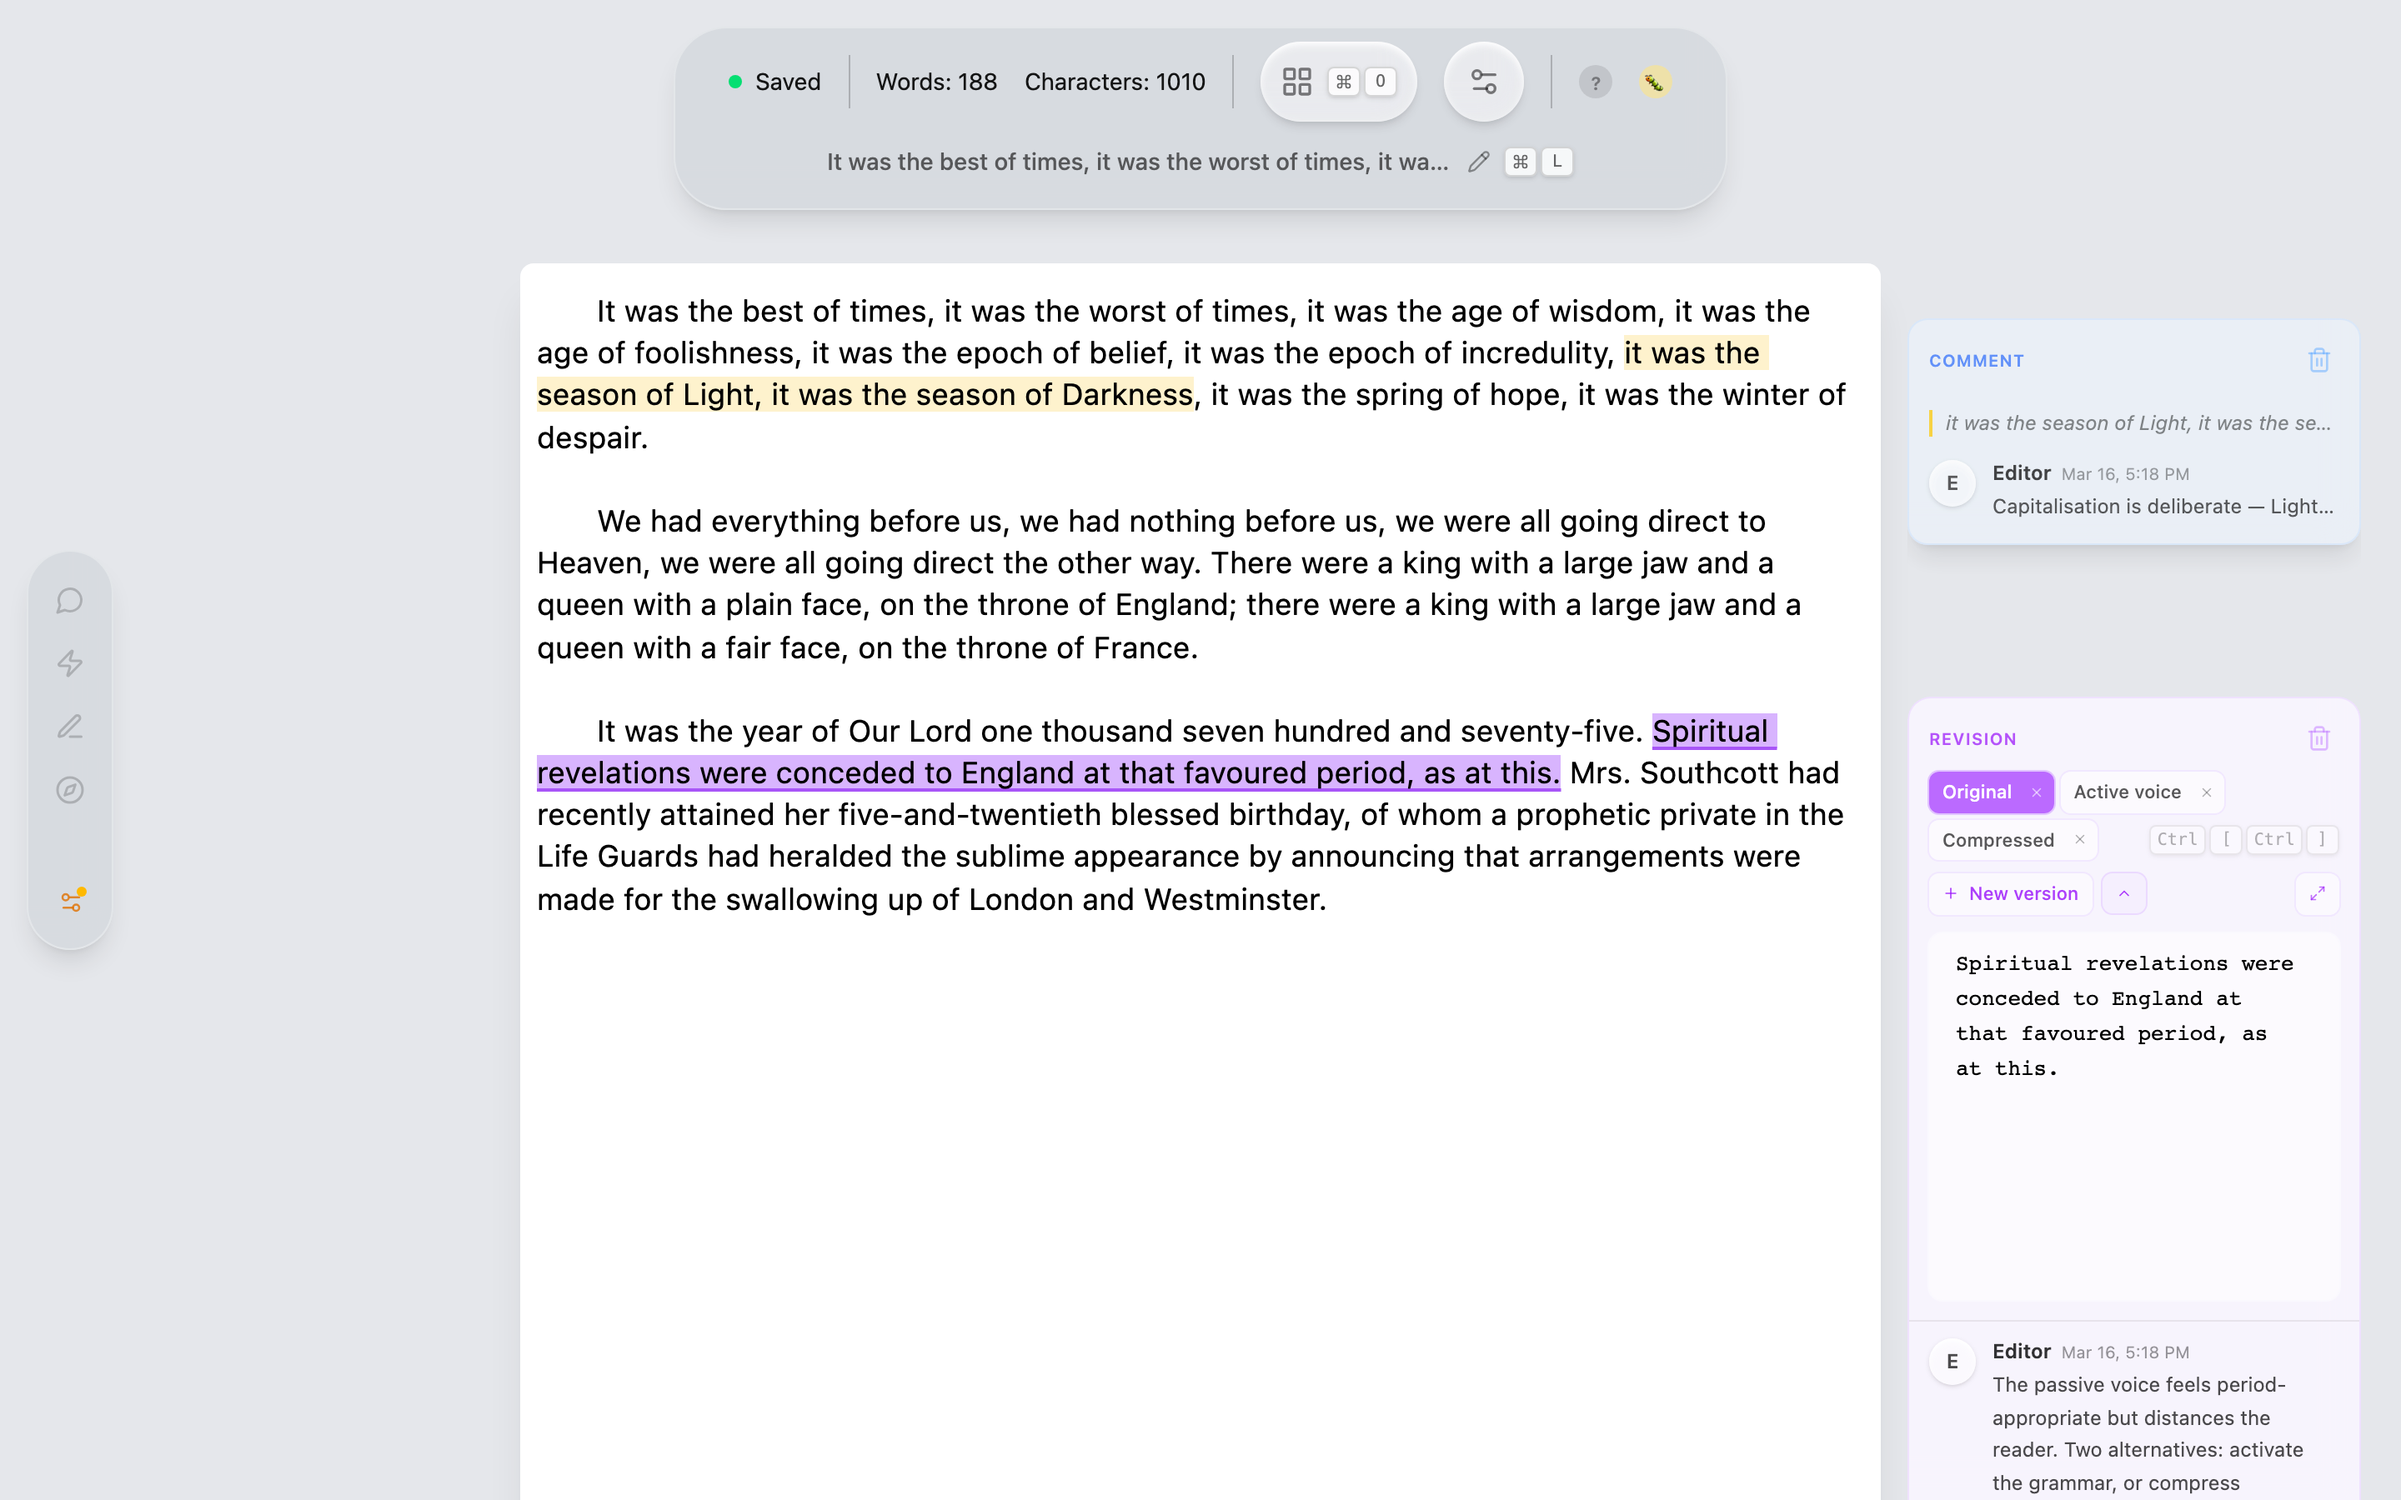
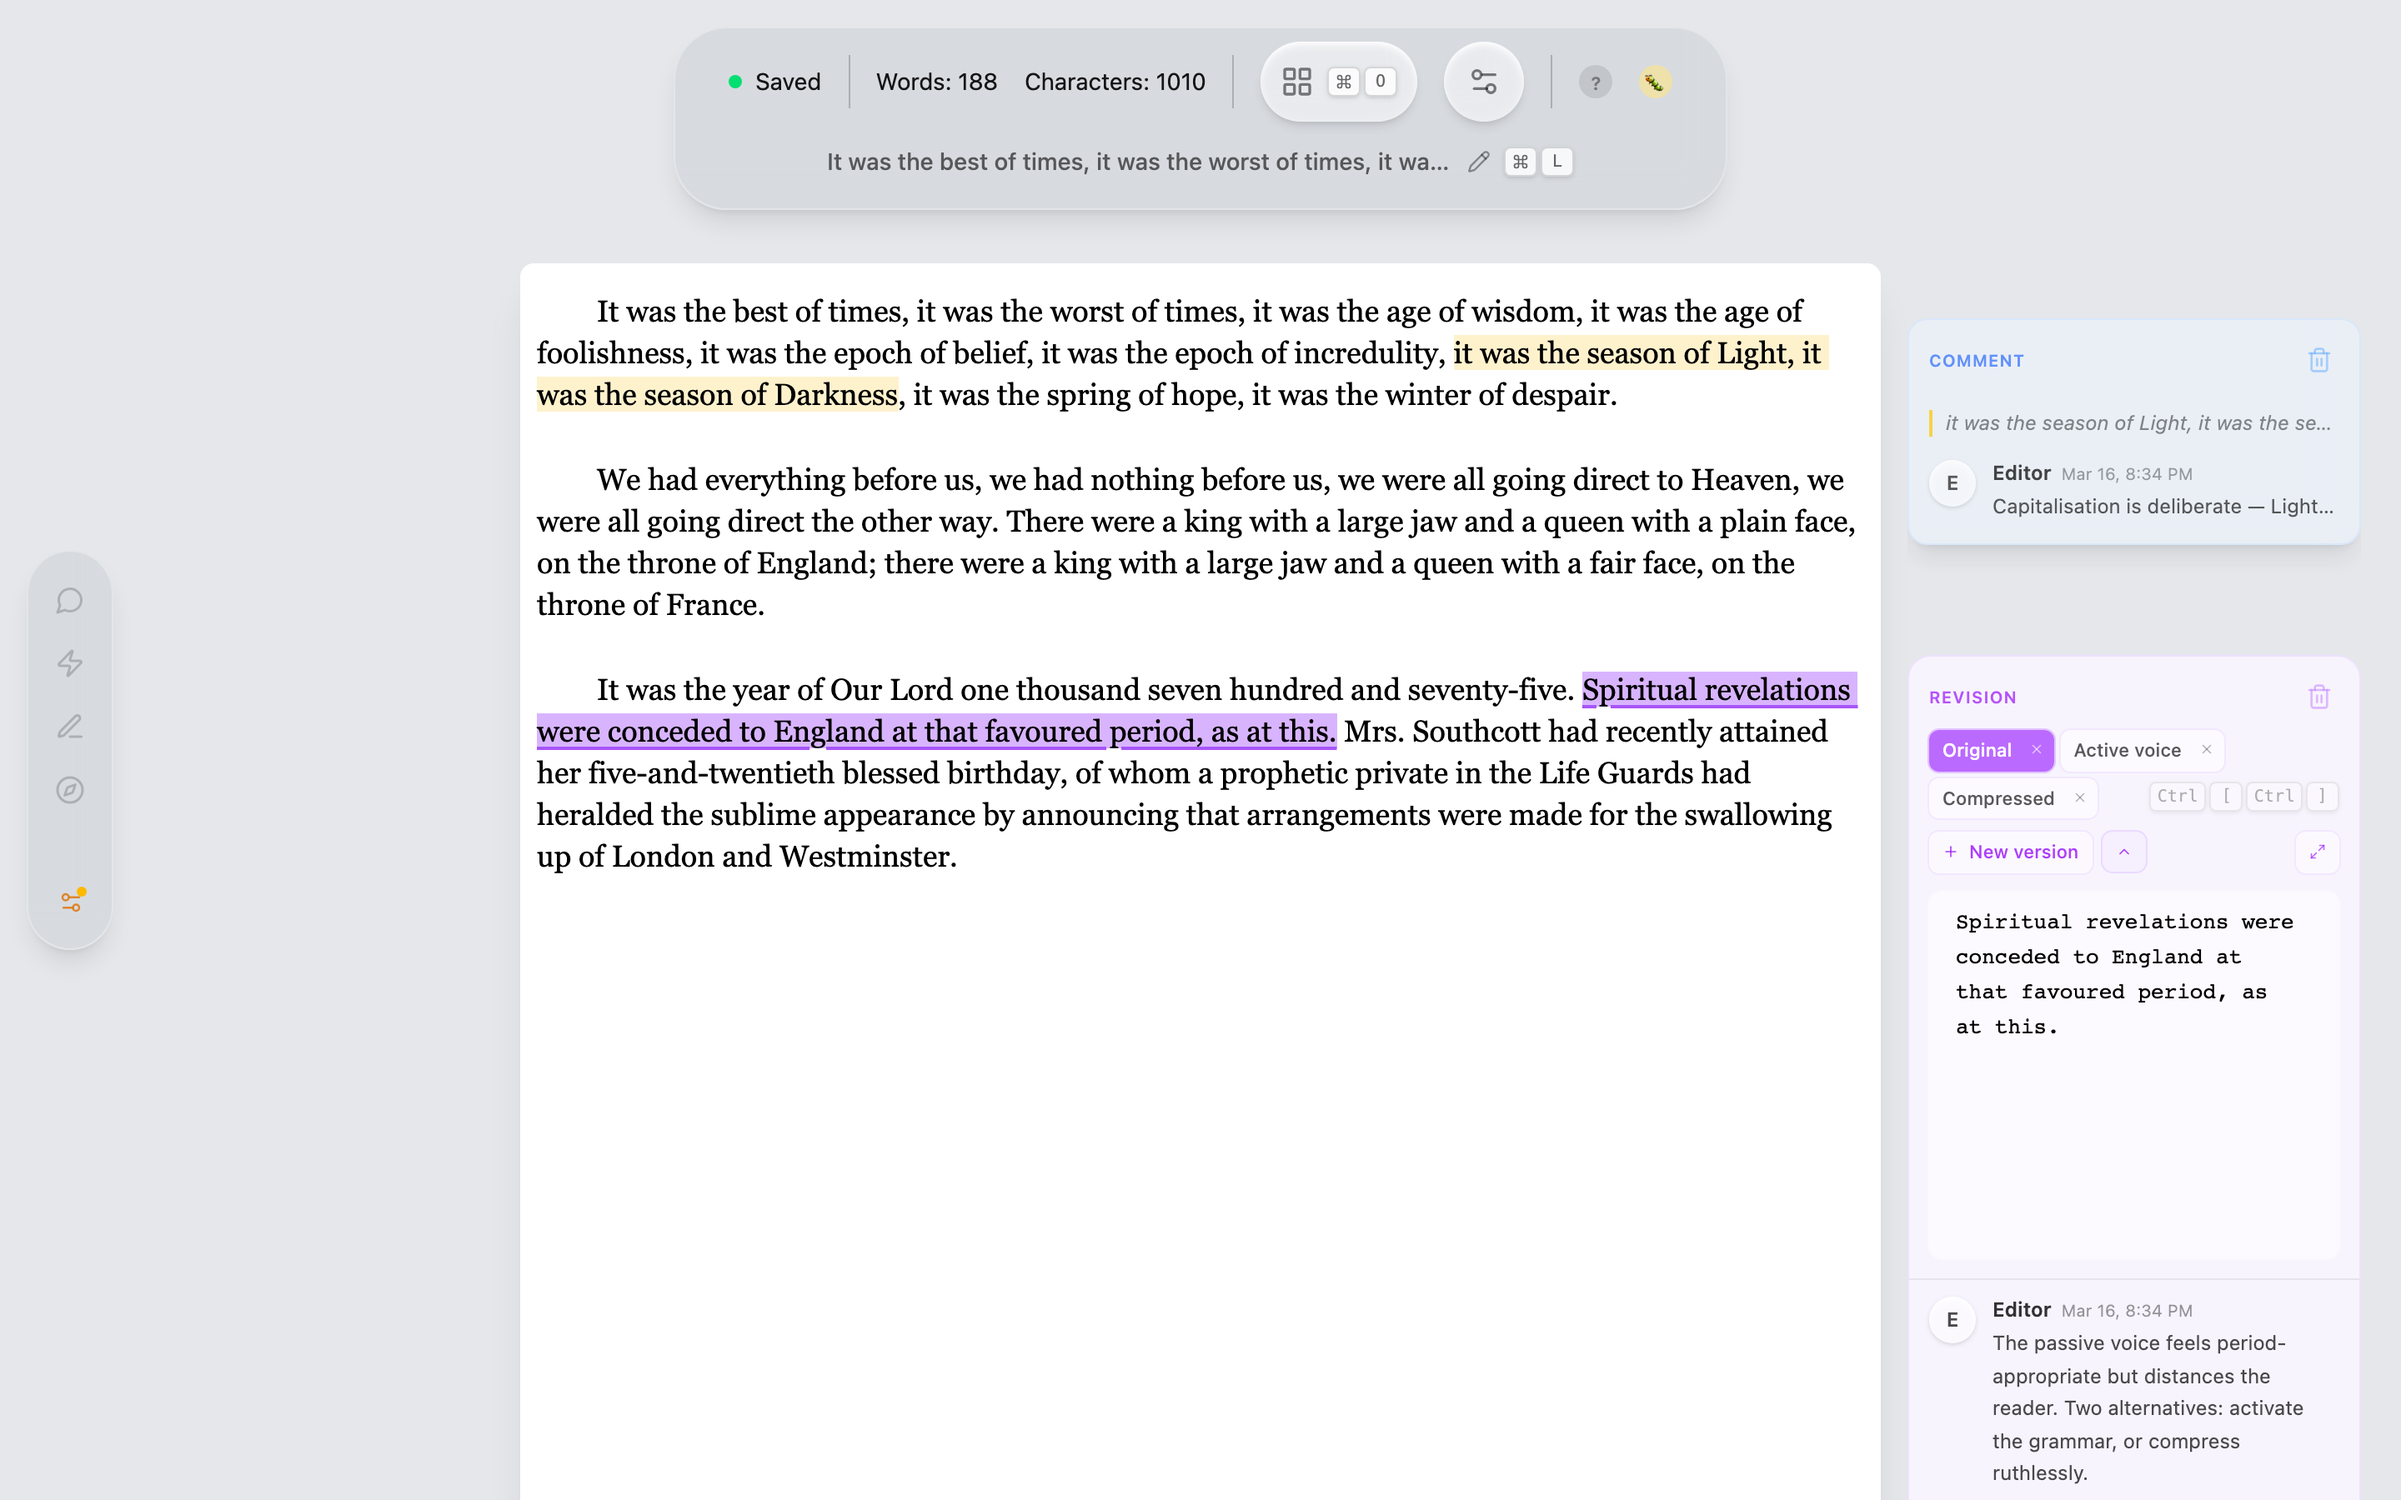
full ui screenshot!

Changed region(s): [[0.2188, 0.1867, 0.9375, 0.7156], [0.8125, 0.8711, 0.9688, 0.9956]]

diff --git a/scripts/screenshots.ts b/scripts/screenshots.ts
@@ -566,7 +566,8 @@ async function scenarioFullUi(ctx: BrowserContext): Promise<void> {
     await page.locator("#ai-tab-chat").click({ force: true });
     await page.locator("#ai-sidebar").waitFor({ state: "visible" });
 
-    // Select the rain passage so the "Context:" box appears in the AI sidebar
+    // Select "The letter stayed where it was." as a range — this both activates
+    // the comment card AND populates $selectedText so the Context box appears.
     await page.evaluate(() => {
         const w = window as unknown as Record<string, unknown>;
         const editorViewStore = w.__editorView__ as
@@ -574,9 +575,7 @@ async function scenarioFullUi(ctx: BrowserContext): Promise<void> {
             | undefined;
         if (!editorViewStore) return;
         let view: unknown;
-        const unsub = editorViewStore.subscribe((v) => {
-            view = v;
-        });
+        const unsub = editorViewStore.subscribe((v) => { view = v; });
         unsub();
         if (!view) return;
         const v = view as {
@@ -585,18 +584,14 @@ async function scenarioFullUi(ctx: BrowserContext): Promise<void> {
             focus(): void;
         };
         const doc = v.state.doc.toString();
-        const target = "the rain began";
+        const target = "The letter stayed where it was.";
         const from = doc.indexOf(target);
         if (from === -1) return;
-        const to = from + "the rain began — gently at first, then all at once, the way grief arrives without warning or ceremony".length;
+        const to = from + target.length;
         v.focus();
         v.dispatch({ selection: { anchor: from, head: to } });
     });
-    await page.waitForTimeout(300);
-
-    // Activate the last comment ("The letter stayed where it was.") so its
-    // thread, reply input, and Suggest button are all visible
-    await activateAnnotation(page, "The letter stayed where it was.");
+    await page.waitForTimeout(400);
 
     await shot(page, "08-full-ui");
     await page.close();
